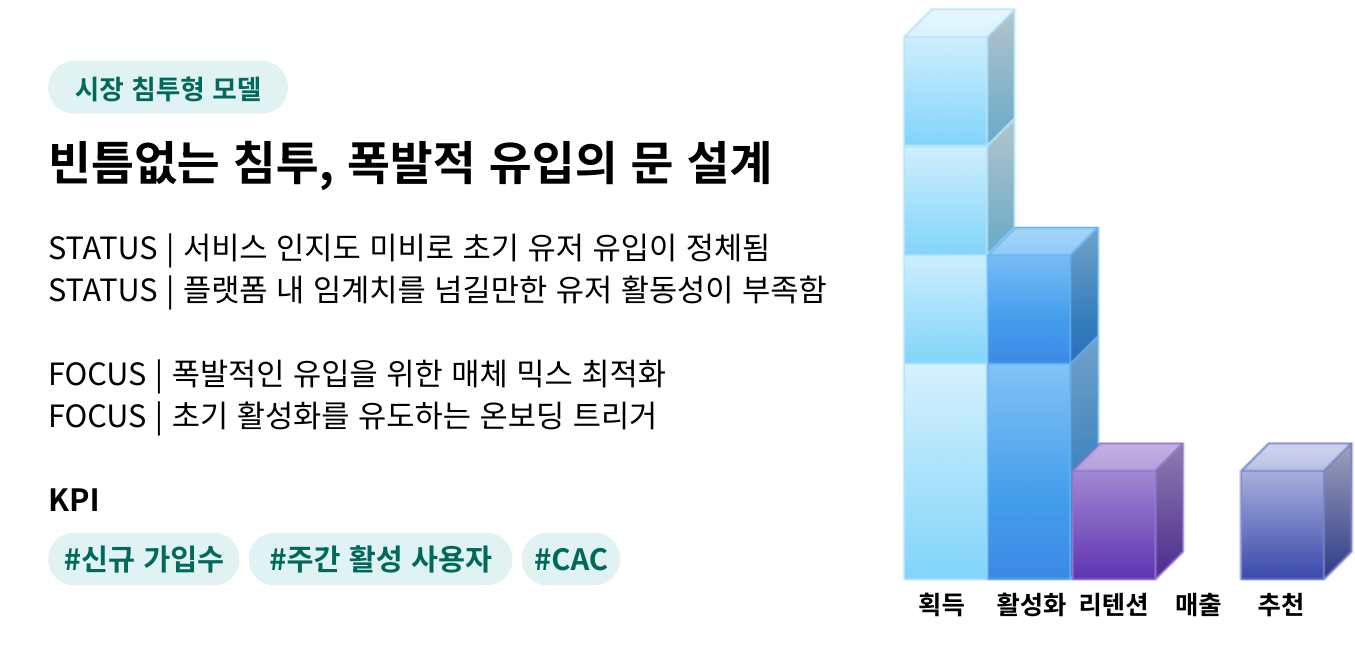
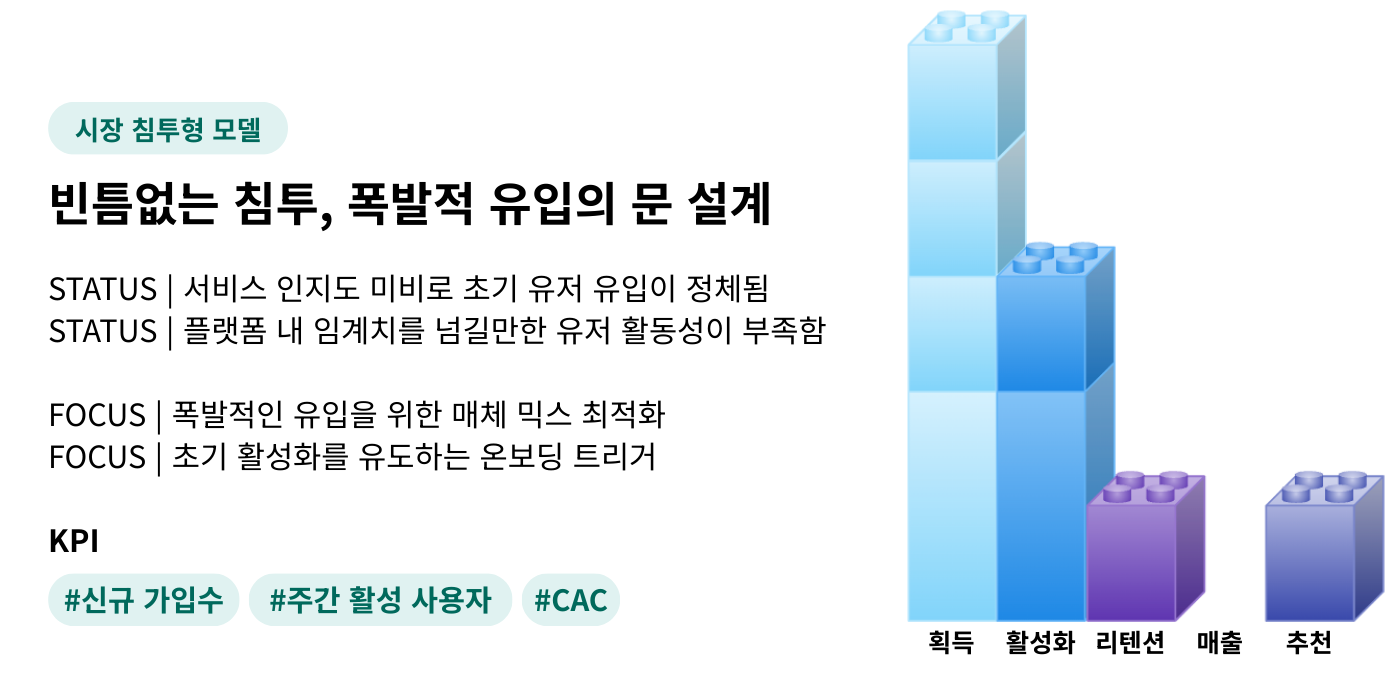
refactor: update more lego like images

diff --git a/components/landing/hero-section.tsx b/components/landing/hero-section.tsx
@@ -18,7 +18,7 @@ function HeroBadge() {
 
 function HeroHeadline() {
   return (
-    <h1 className="text-3xl sm:text-4xl lg:text-[2.75rem] font-bold text-foreground leading-[1.4] [word-break:keep-all]">
+    <h1 className="text-3xl sm:text-4xl font-bold text-foreground leading-[1.4] [word-break:keep-all]">
       이제 귀사에도{" "}
       <span className="relative inline-block text-primary">
         CMO
@@ -126,10 +126,10 @@ export function HeroSection() {
     <section className="relative min-h-dvh lg:min-h-[800px] flex flex-col justify-center py-16 sm:py-24 lg:py-32 overflow-hidden bg-[#f0f1f0]">
       <div className="max-w-6xl mx-auto px-4 sm:px-6 lg:px-8 relative">
         <div className="flex flex-col lg:flex-row gap-12 lg:gap-16 items-center">
-          <div className="flex-1 lg:max-w-[70%]">
+          <div className="flex-1 lg:max-w-[60%]">
             <HeroContent />
           </div>
-          <div className="lg:max-w-[30%]">
+          <div className="lg:max-w-[40%]">
             <Image
               src={hero}
               alt="hero image"
